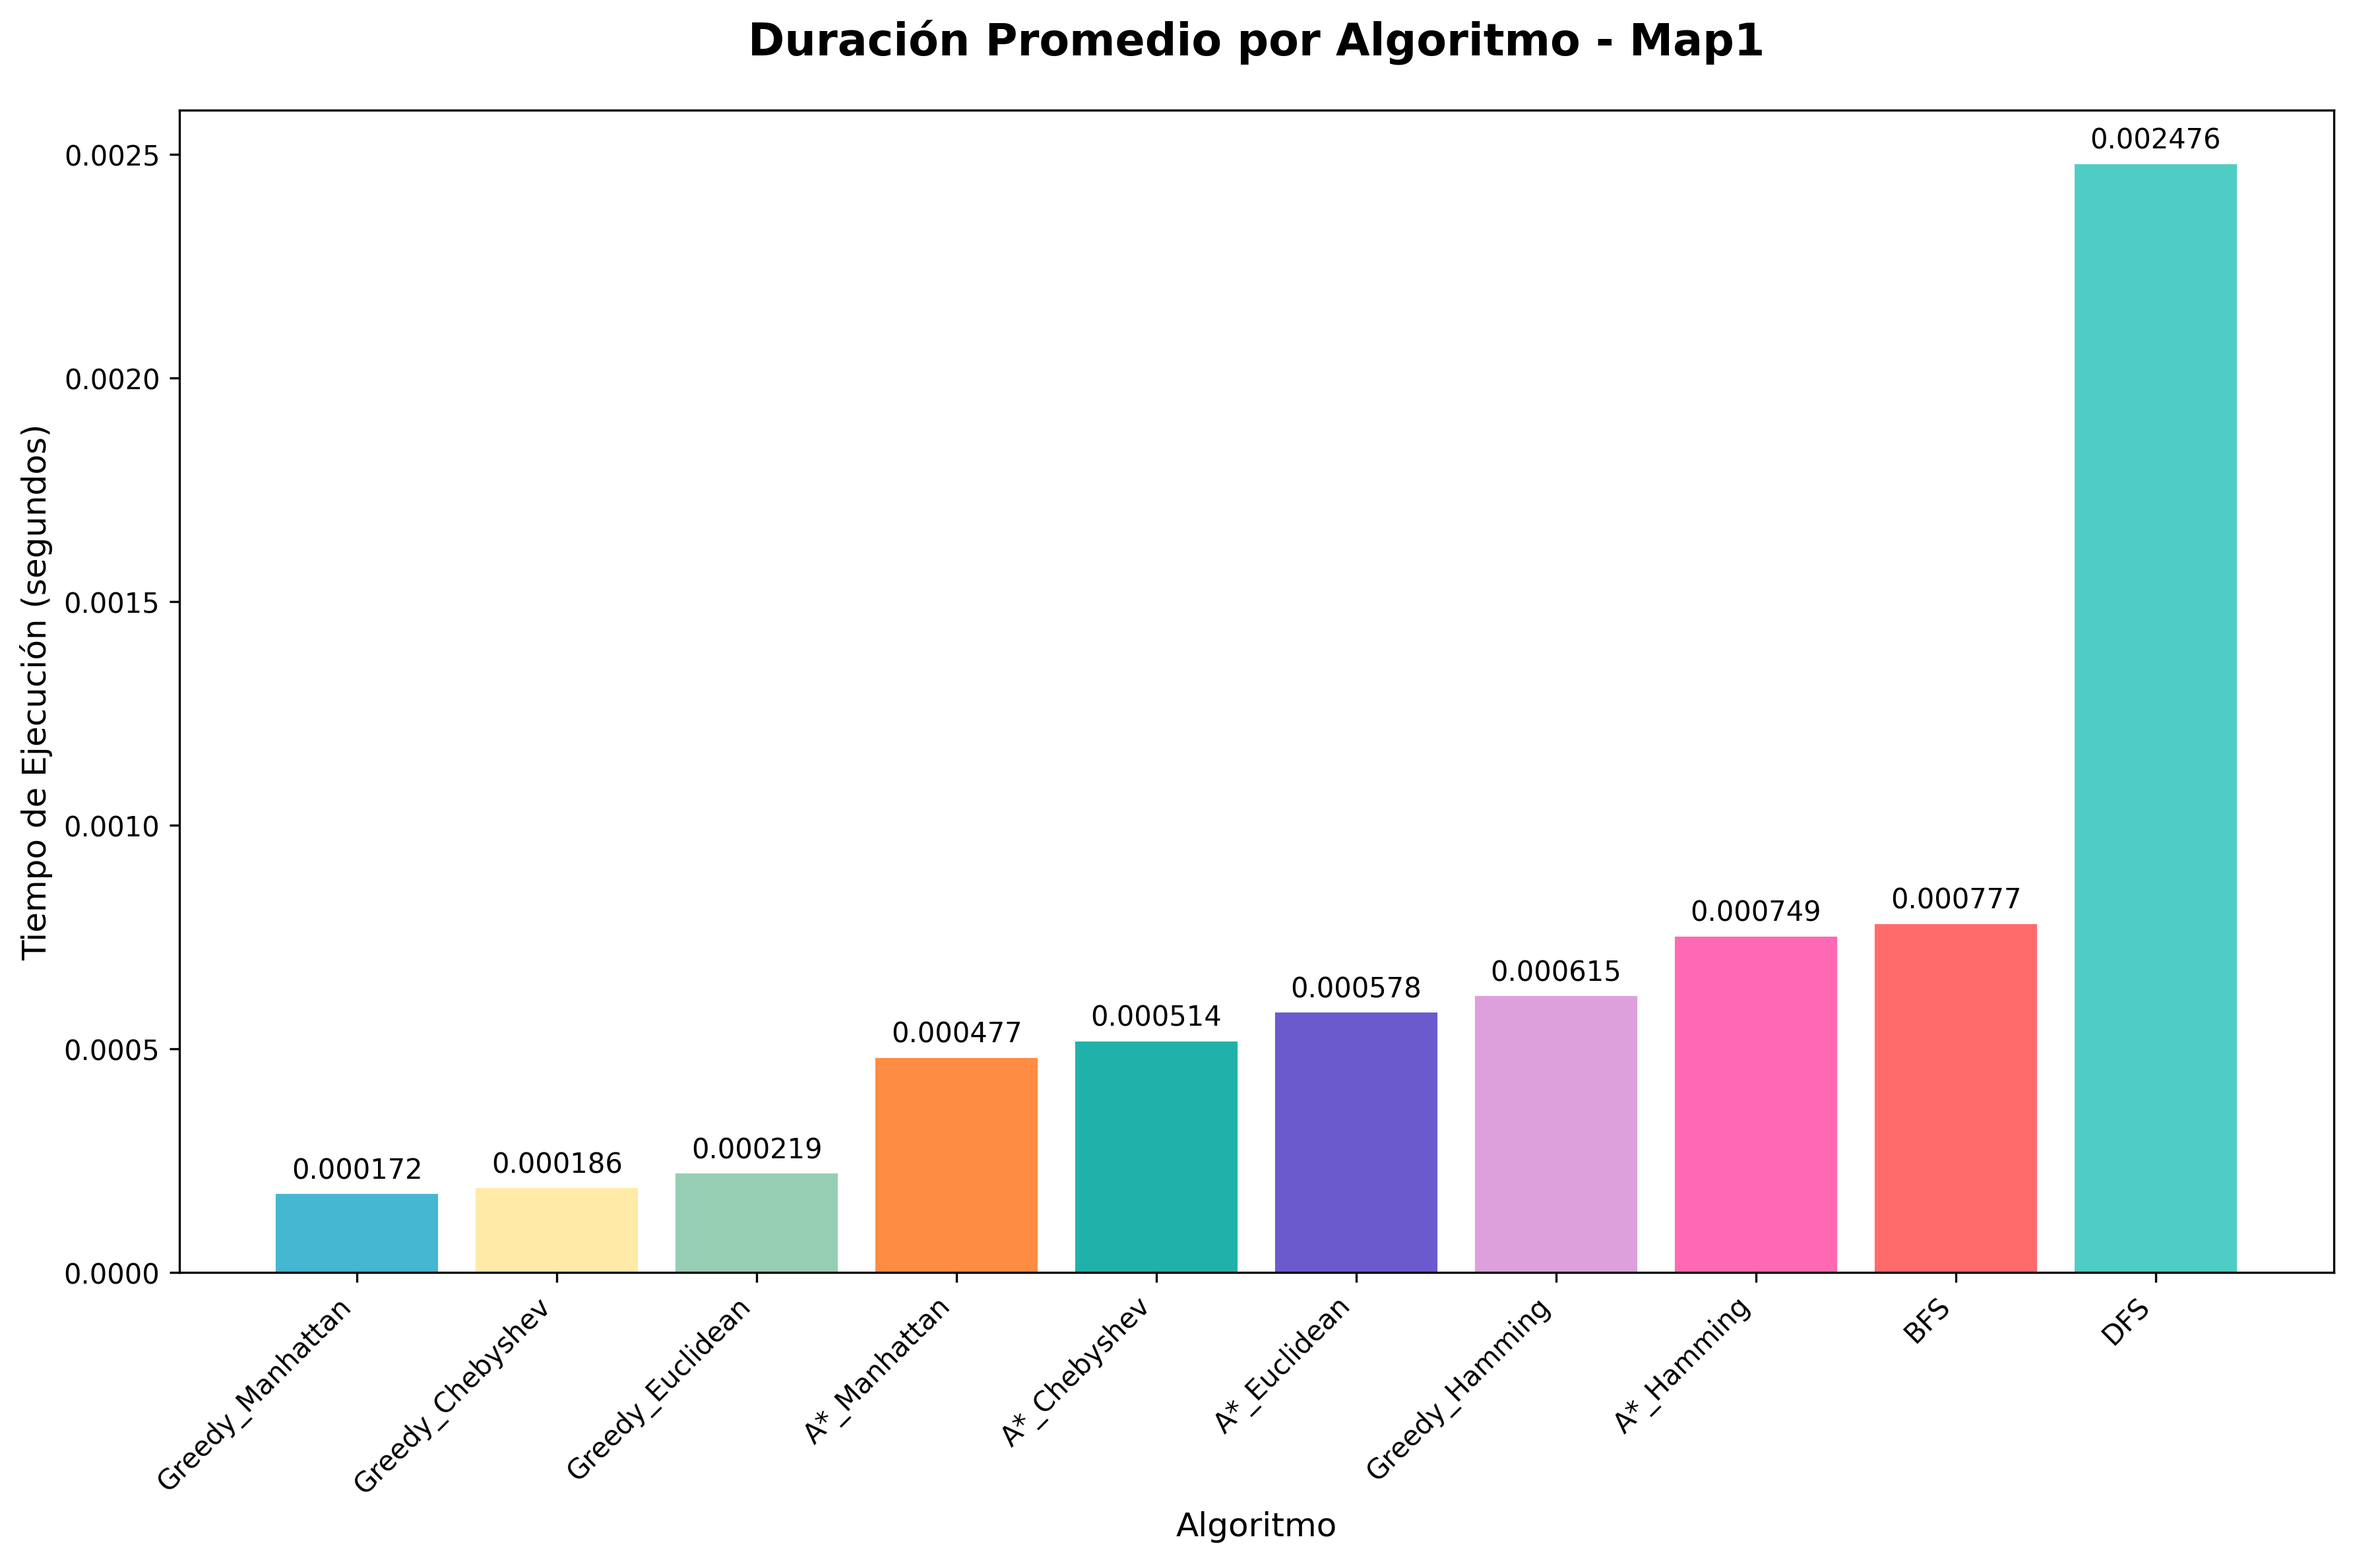
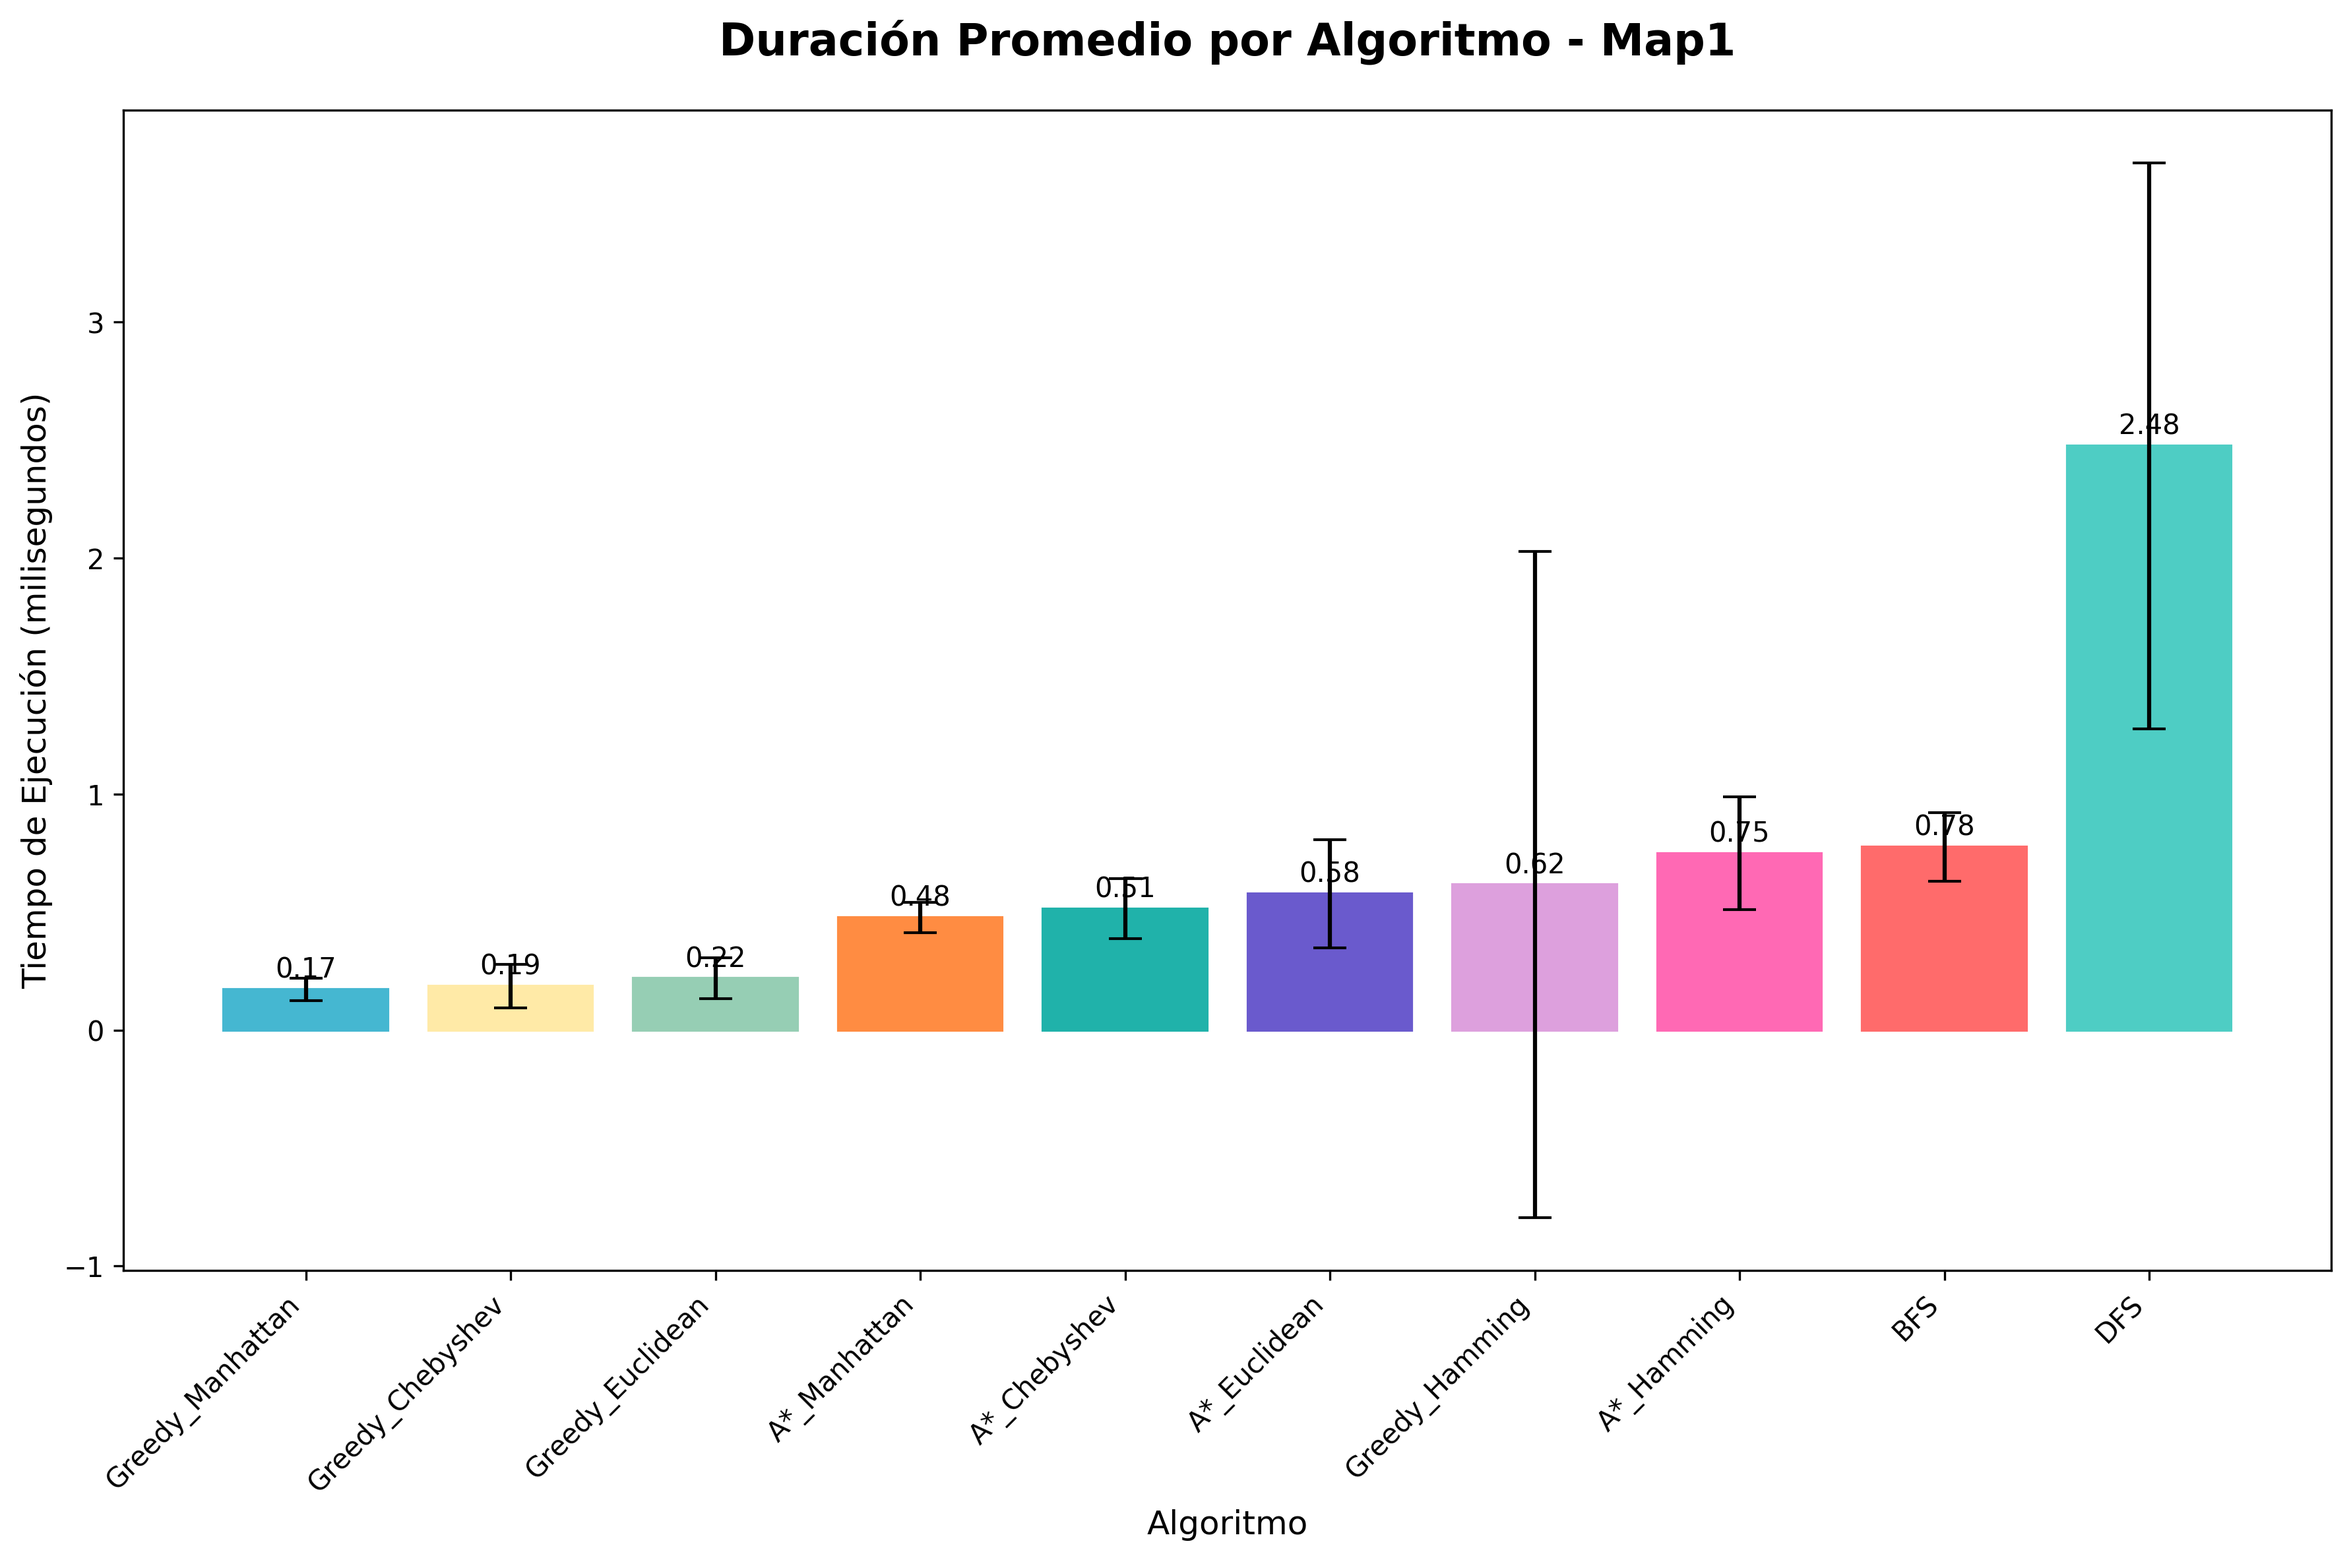
Change time units to ms and add std dev error bars

diff --git a/tp1_sokoban/scripts/individual_map_graphs.py b/tp1_sokoban/scripts/individual_map_graphs.py
@@ -16,11 +16,11 @@ def create_map_graph(df, map_name, output_dir="../graphs/"):
     # Filtrar datos para el mapa específico
     map_data = df[df['map_name'] == map_name]
     
-    # Calcular duración promedio por algoritmo
-    duration_data = map_data.groupby('algorithm_heuristic')['execution_time'].mean().reset_index()
-    
-    # Ordenar por duración (mejor rendimiento primero)
-    duration_data = duration_data.sort_values('execution_time')
+    # Calcular duración promedio y desviación estándar por algoritmo (en milisegundos)
+    duration_data = map_data.groupby('algorithm_heuristic')['execution_time'].agg(['mean', 'std']).reset_index()
+    duration_data['mean'] *= 1000  # Convertir a milisegundos
+    duration_data['std'] *= 1000   # Convertir a milisegundos
+    duration_data = duration_data.sort_values('mean')
     
     # Definir colores específicos para cada algoritmo
     colors = {
@@ -39,8 +39,13 @@ def create_map_graph(df, map_name, output_dir="../graphs/"):
     # Configurar el gráfico
     plt.figure(figsize=(12, 8))
     
-    # Crear gráfico de barras con colores específicos
-    bars = plt.bar(range(len(duration_data)), duration_data['execution_time'])
+    # Crear gráfico de barras con barras de error (desviación estándar)
+    bars = plt.bar(
+        range(len(duration_data)),
+        duration_data['mean'],
+        yerr=duration_data['std'],
+        capsize=6
+    )
     
     # Aplicar colores específicos a cada barra
     for i, (_, row) in enumerate(duration_data.iterrows()):
@@ -50,16 +55,16 @@ def create_map_graph(df, map_name, output_dir="../graphs/"):
     # Personalizar el gráfico
     plt.title(f'Duración Promedio por Algoritmo - {map_name}', fontsize=16, fontweight='bold', pad=20)
     plt.xlabel('Algoritmo', fontsize=12)
-    plt.ylabel('Tiempo de Ejecución (segundos)', fontsize=12)
-    
+    plt.ylabel('Tiempo de Ejecución (milisegundos)', fontsize=12)
+
     # Configurar etiquetas del eje X
     plt.xticks(range(len(duration_data)), duration_data['algorithm_heuristic'], rotation=45, ha='right')
     
     # Agregar valores en las barras
     for i, (_, row) in enumerate(duration_data.iterrows()):
-        plt.text(i, row['execution_time'] + max(duration_data['execution_time']) * 0.01, 
-                f'{row["execution_time"]:.6f}', ha='center', va='bottom', fontsize=10)
-    
+        plt.text(i, row['mean'] + max(duration_data['mean']) * 0.01, 
+                f'{row["mean"]:.2f}', ha='center', va='bottom', fontsize=10)
+
     # Ajustar layout
     plt.tight_layout()
     
